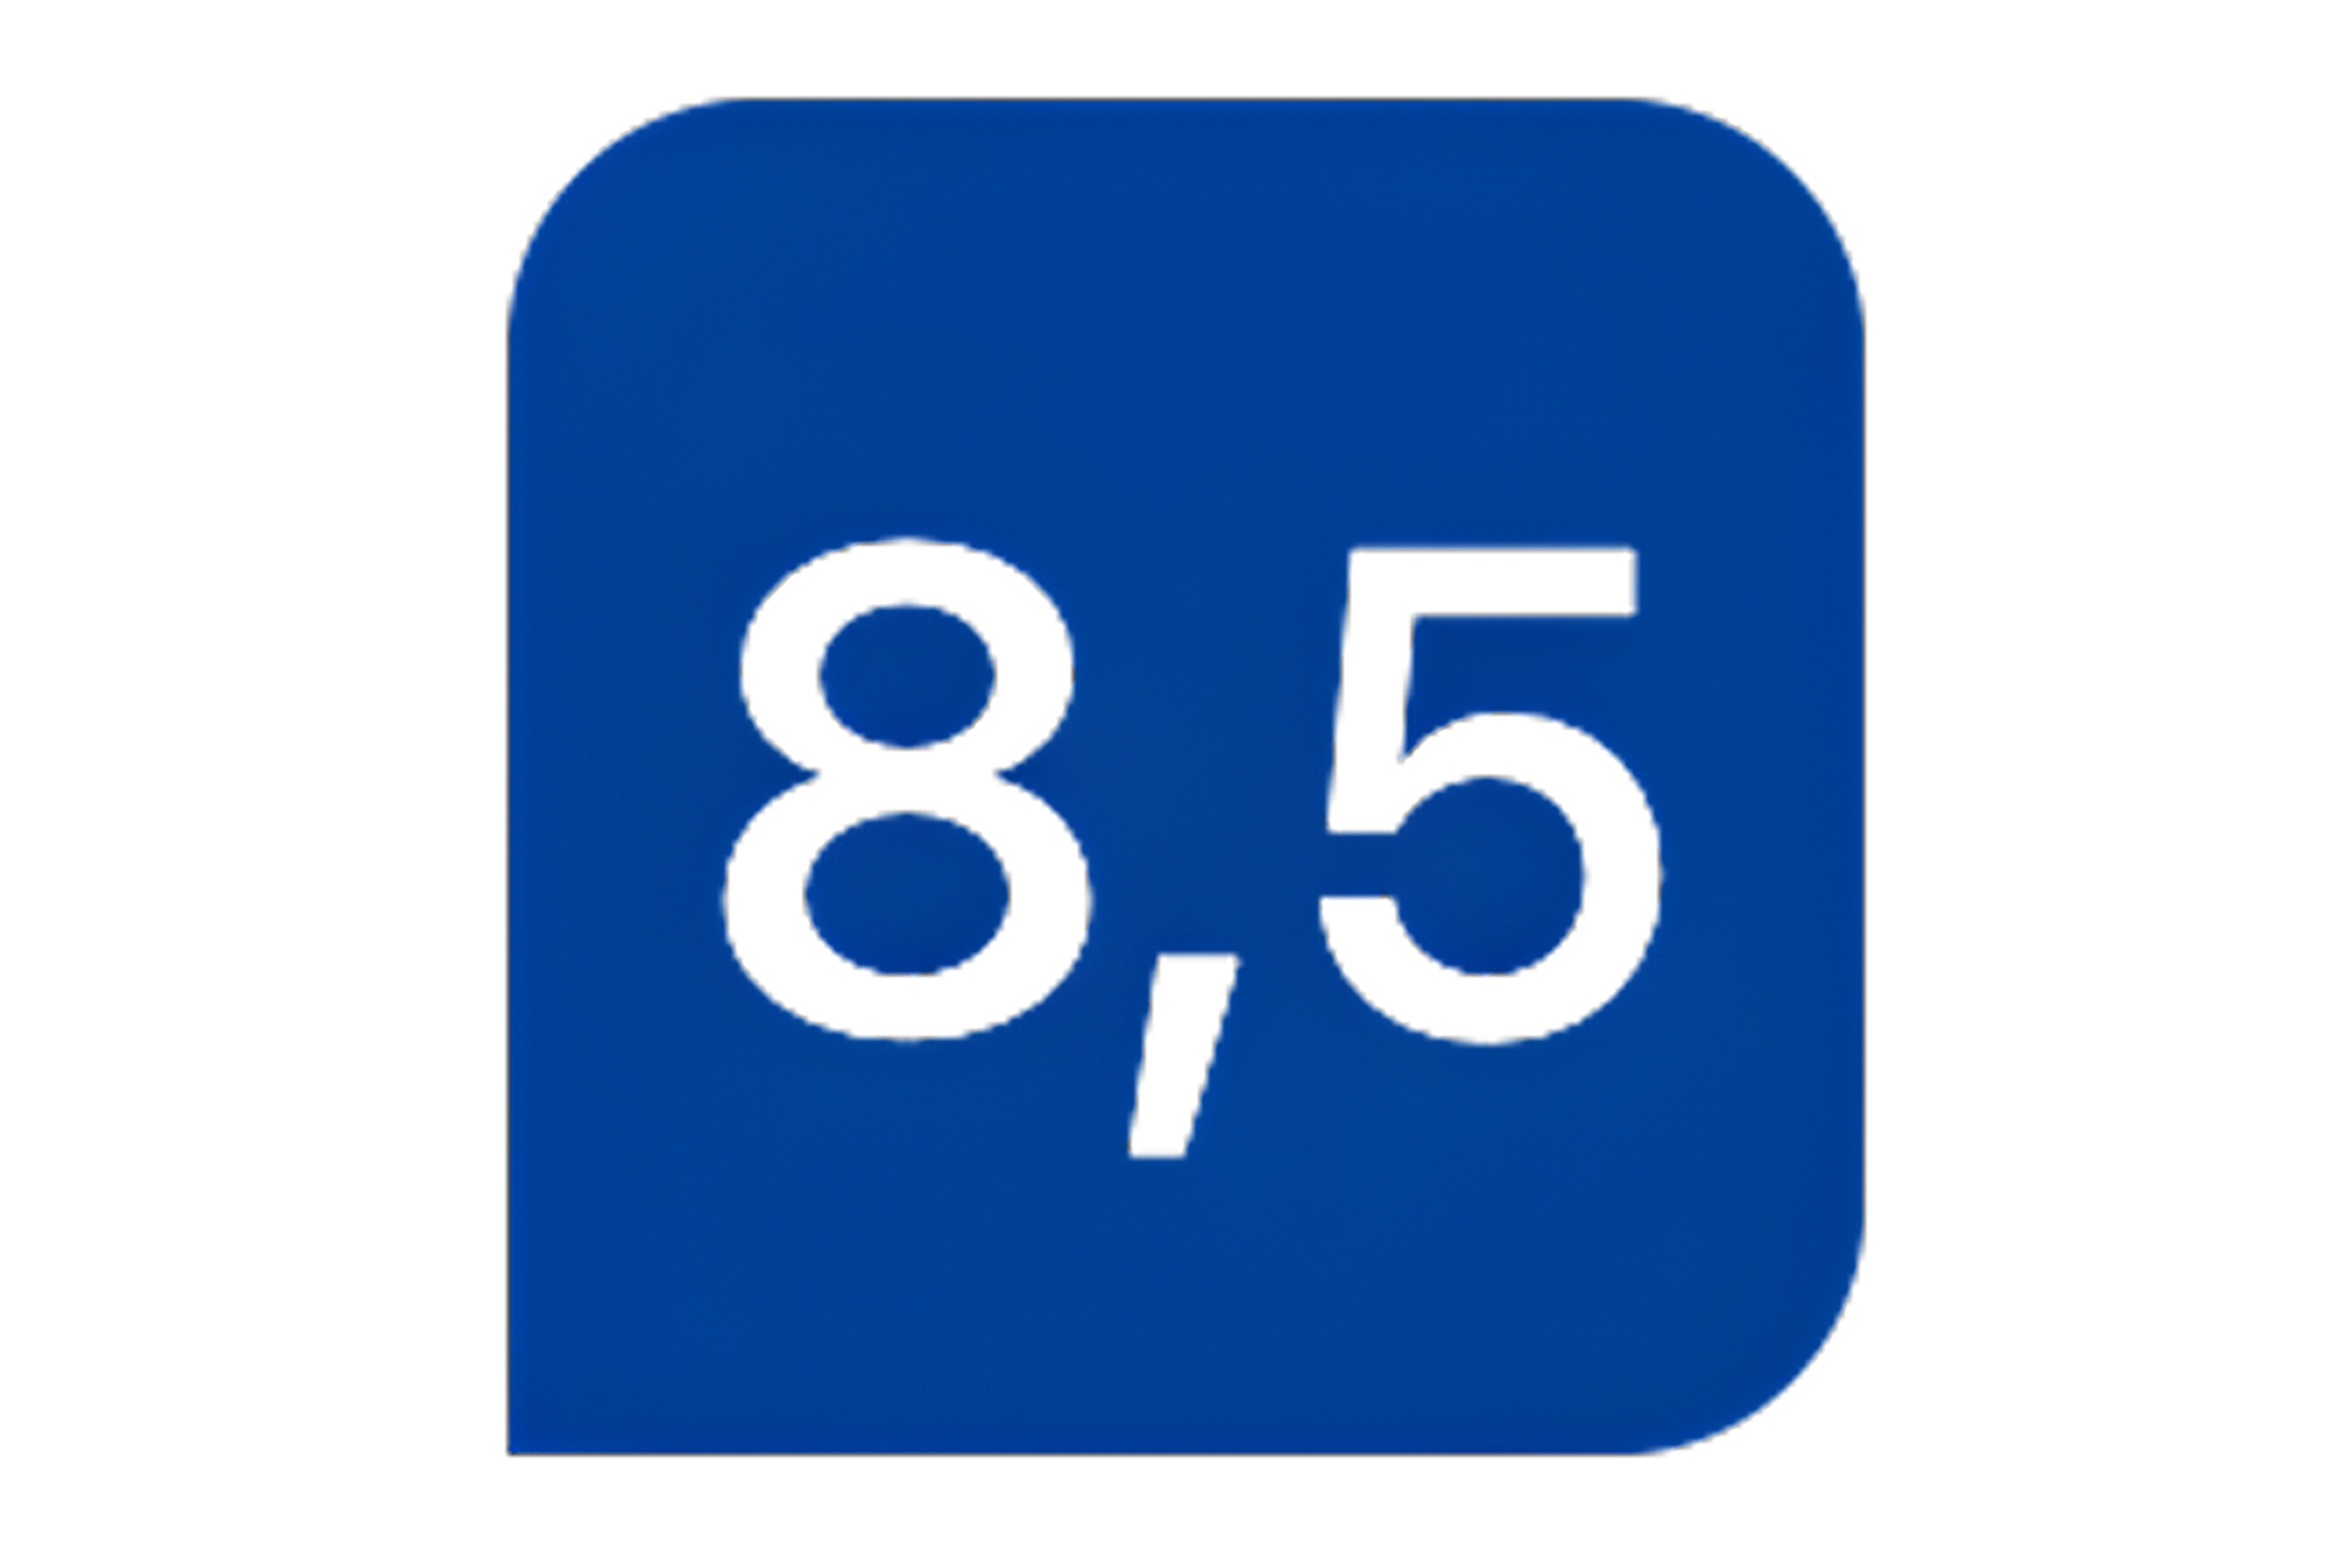
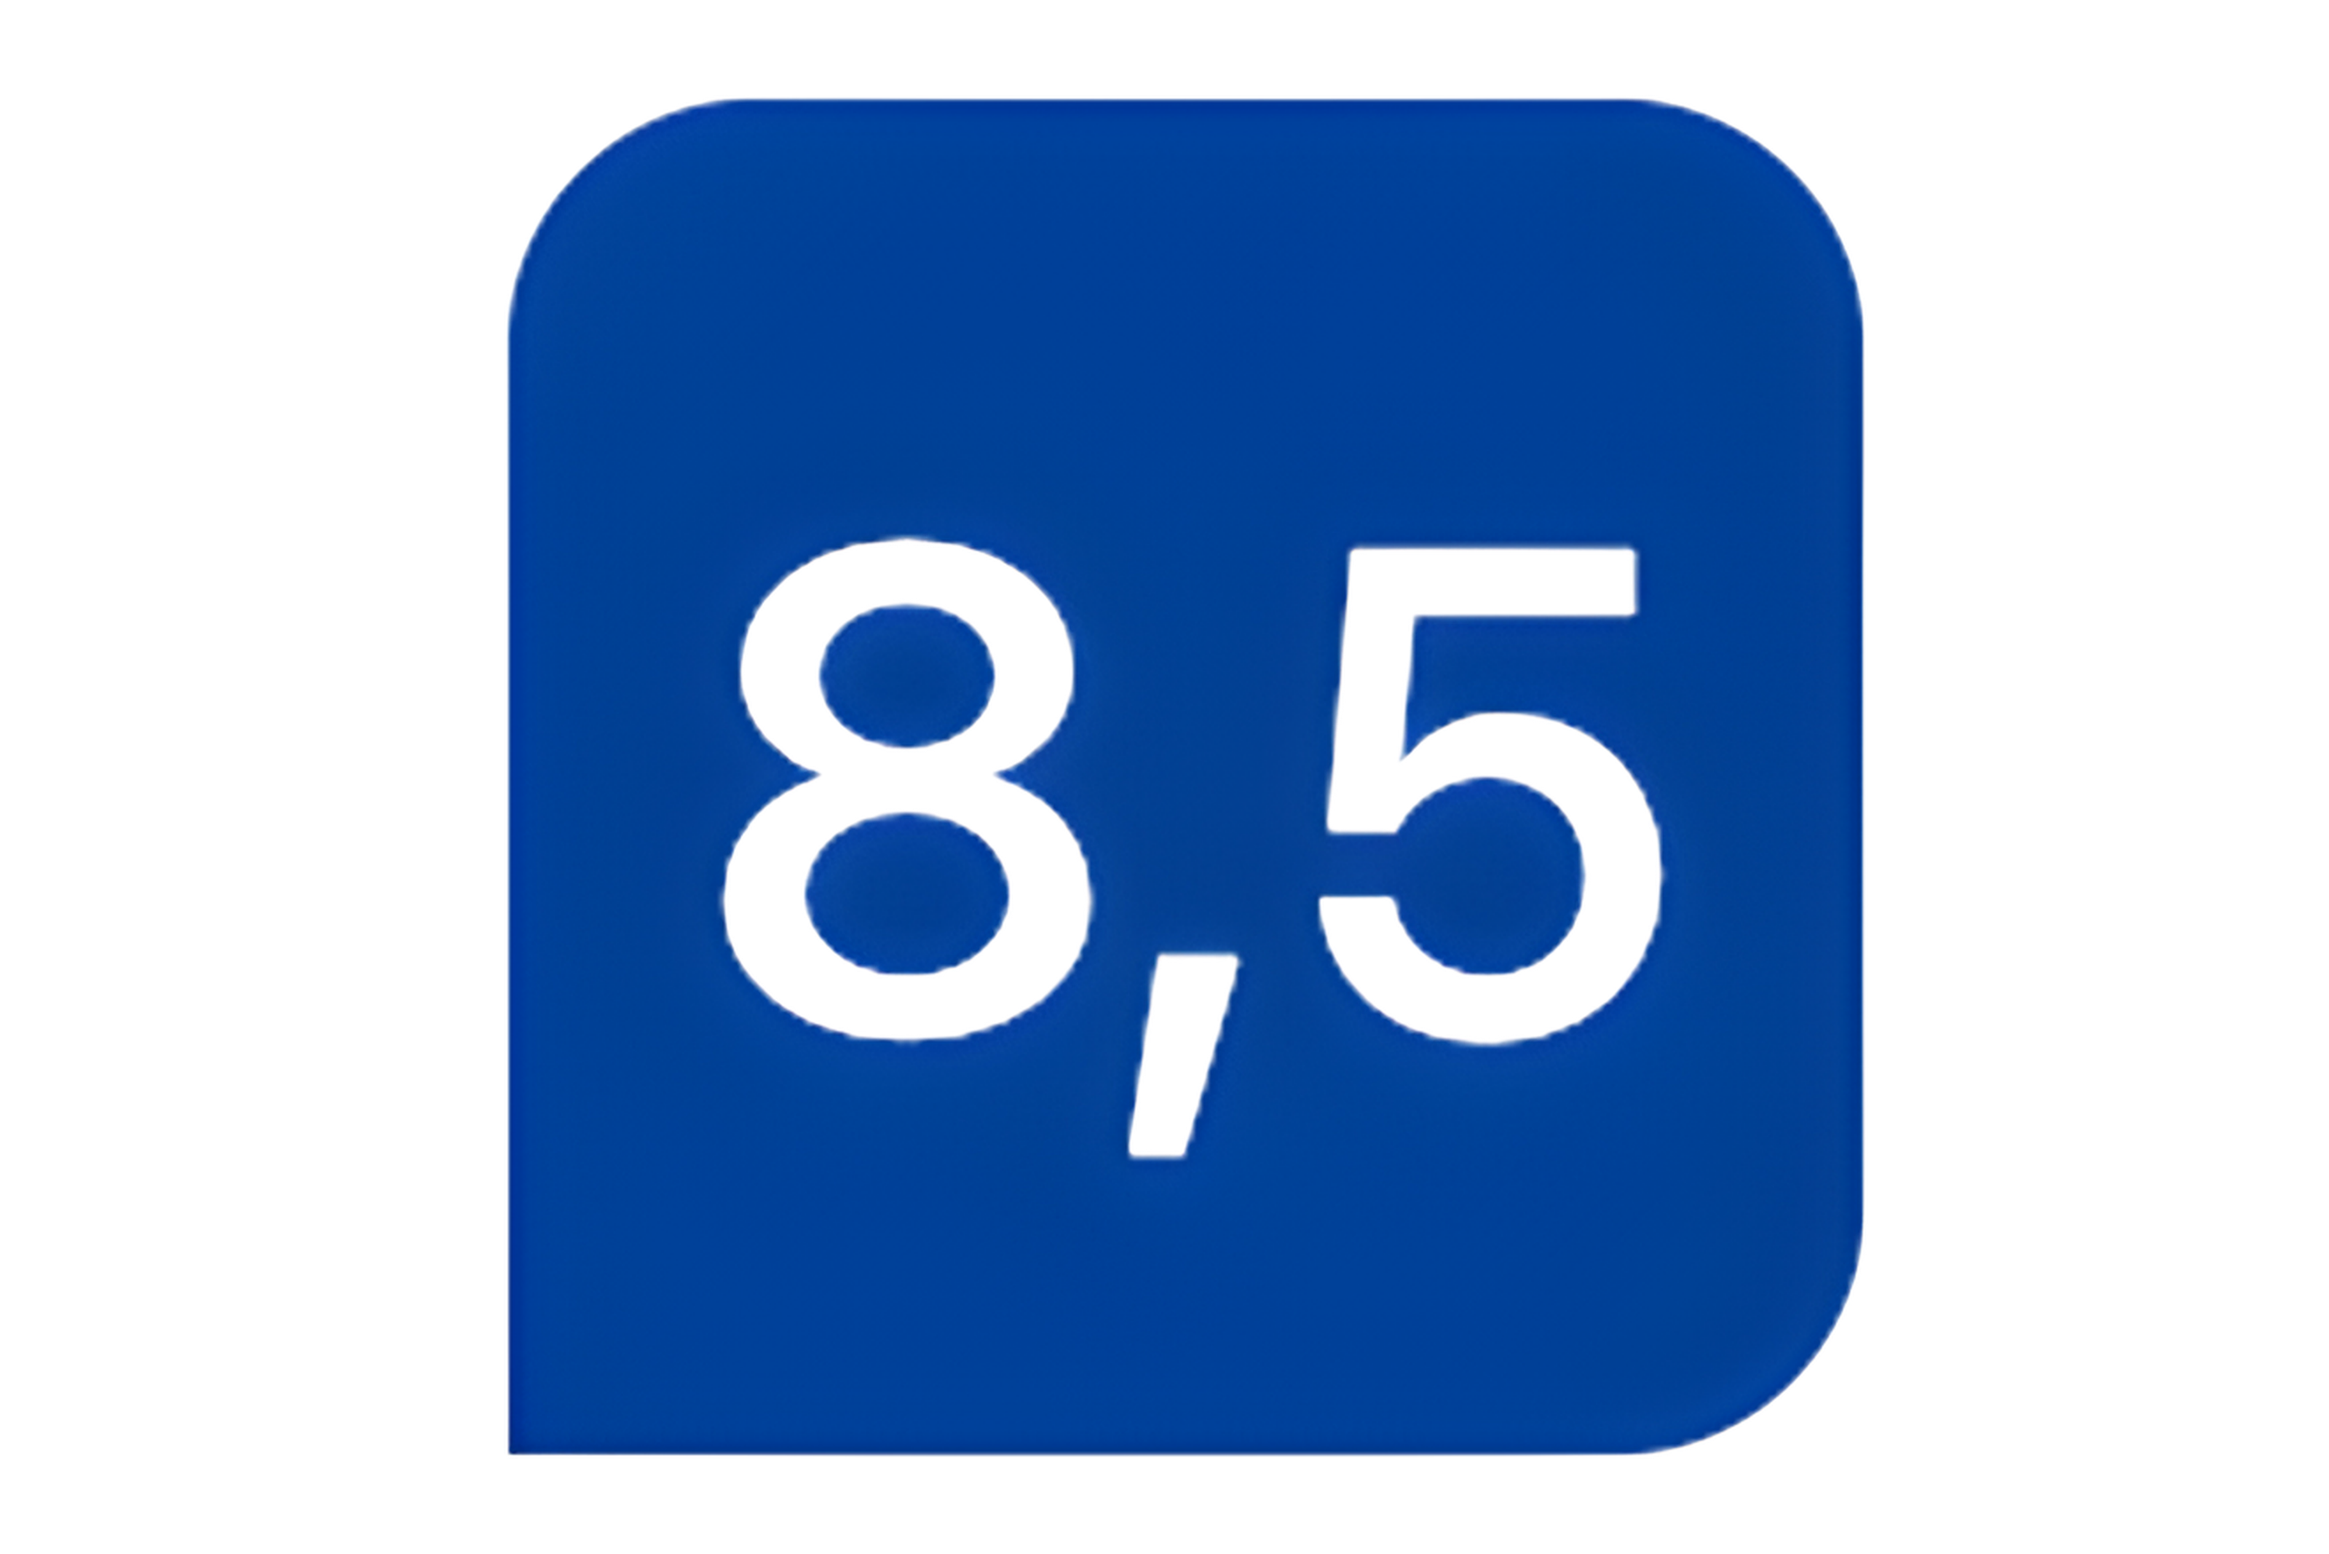
convert reviews into infinite sliding carousel and refresh rating visual
Implement true infinite horizontal sliding for review cards, fine-tune booking comment placement, and update the rating-general asset to the latest PNG.

Made-with: Cursor

Changed region(s): [[0.3404, 0.0619, 0.6808, 0.0928], [0.7737, 0.3093, 0.8046, 0.4021], [0.2166, 0.9278, 0.2476, 0.9588]]

diff --git a/app/page.tsx b/app/page.tsx
@@ -174,10 +174,13 @@ export default function Home() {
   const [checkinDisplay, setCheckinDisplay] = useState("");
   const [checkoutDisplay, setCheckoutDisplay] = useState("");
   const [isGuestsOpen, setIsGuestsOpen] = useState(false);
-  const [reviewIndex, setReviewIndex] = useState(0);
+  const [reviewIndex, setReviewIndex] = useState(REVIEWS.length);
+  const [reviewTransition, setReviewTransition] = useState(true);
+  const [cardsPerView, setCardsPerView] = useState(4);
   const [heroSlideIndex, setHeroSlideIndex] = useState(0);
   const [teruelSlideIndex, setTeruelSlideIndex] = useState(0);
   const guestsPanelRef = useRef<HTMLDivElement>(null);
+  const carouselReviews = [...REVIEWS, ...REVIEWS, ...REVIEWS];
 
   useEffect(() => {
     const observer = new IntersectionObserver(
@@ -237,10 +240,48 @@ export default function Home() {
 
   useEffect(() => {
     const interval = setInterval(() => {
+      setReviewTransition(true);
       setReviewIndex((current) => current + 1);
     }, 3200);
     return () => clearInterval(interval);
   }, []);
+
+  useEffect(() => {
+    const onResize = () => {
+      if (window.innerWidth < 900) {
+        setCardsPerView(1);
+        return;
+      }
+      if (window.innerWidth < 1260) {
+        setCardsPerView(2);
+        return;
+      }
+      setCardsPerView(4);
+    };
+    onResize();
+    window.addEventListener("resize", onResize);
+    return () => window.removeEventListener("resize", onResize);
+  }, []);
+
+  const handleReviewTrackTransitionEnd = () => {
+    if (reviewIndex >= REVIEWS.length * 2) {
+      setReviewTransition(false);
+      setReviewIndex(REVIEWS.length);
+      return;
+    }
+    if (reviewIndex < REVIEWS.length) {
+      setReviewTransition(false);
+      setReviewIndex(REVIEWS.length * 2 - 1);
+    }
+  };
+
+  useEffect(() => {
+    if (reviewTransition) return;
+    const id = requestAnimationFrame(() => {
+      setReviewTransition(true);
+    });
+    return () => cancelAnimationFrame(id);
+  }, [reviewTransition]);
 
   useEffect(() => {
     const interval = setInterval(() => {
@@ -540,11 +581,14 @@ export default function Home() {
               </div>
             </div>
             <div className="reviews-carousel">
-              <div className="reviews-grid">
-                {Array.from({ length: 4 }).map((_, offset) => {
-                  const review = REVIEWS[(reviewIndex + offset) % REVIEWS.length];
-                  return (
-                    <article className="review-card" key={`${review.author}-${review.date}-${offset}`}>
+              <div
+                className={`reviews-track ${reviewTransition ? "" : "no-transition"}`}
+                style={{ transform: `translateX(-${reviewIndex * (100 / cardsPerView)}%)` }}
+                onTransitionEnd={handleReviewTrackTransitionEnd}
+              >
+                {carouselReviews.map((review, index) => (
+                  <div className="review-slide" key={`${review.author}-${review.date}-${index}`} style={{ width: `${100 / cardsPerView}%` }}>
+                    <article className="review-card">
                       <div className="review-meta">
                         <span className="review-badge">{review.title}</span>
                       </div>
@@ -564,8 +608,8 @@ export default function Home() {
                         }}
                       />
                     </article>
-                  );
-                })}
+                  </div>
+                ))}
               </div>
             </div>
           </div>

diff --git a/app/globals.css b/app/globals.css
@@ -831,7 +831,7 @@ nav {
 }
 
 .booking-logo-slot {
-  min-height: 84px;
+  min-height: 72px;
   border-radius: 0;
   border: none;
   background: transparent;
@@ -851,7 +851,7 @@ nav {
 }
 
 .booking-comments-count {
-  margin-top: 2px;
+  margin-top: -6px;
   font-size: 16px;
   line-height: 1.1;
   color: #173f81;
@@ -880,12 +880,22 @@ nav {
 
 .reviews-carousel {
   width: 100%;
+  overflow: hidden;
 }
 
-.reviews-grid {
-  display: grid;
-  grid-template-columns: repeat(2, minmax(0, 1fr));
-  gap: 12px;
+.reviews-track {
+  display: flex;
+  transition: transform 0.45s ease;
+  margin: 0 -6px;
+}
+
+.reviews-track.no-transition {
+  transition: none;
+}
+
+.review-slide {
+  padding: 0 6px;
+  flex-shrink: 0;
 }
 
 .review-meta {
@@ -1127,10 +1137,6 @@ nav {
   }
 
   .resenas-grid {
-    grid-template-columns: 1fr;
-  }
-
-  .reviews-grid {
     grid-template-columns: 1fr;
   }
 
